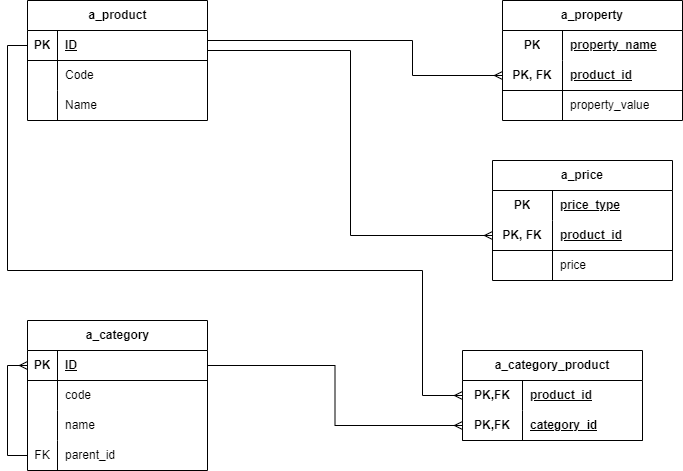
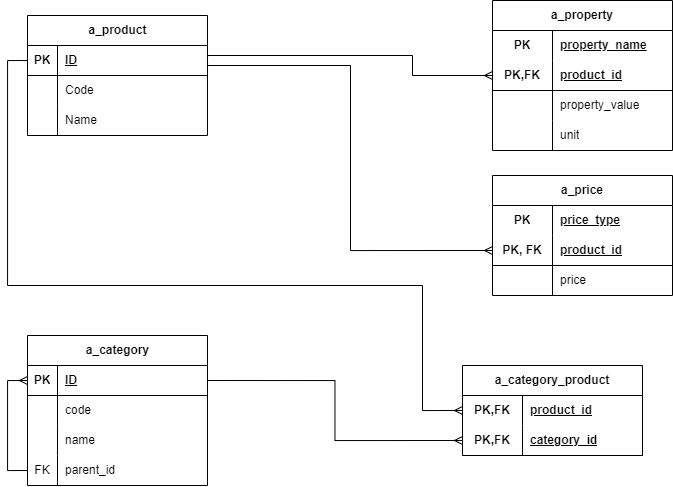
db
Добавлена единица измерения для свойства элемента

diff --git a/2.php b/2.php
@@ -80,7 +80,43 @@ function importXml(string $a) : void{
         $stmt = $connection->prepare("INSERT INTO a_product (code, name) VALUES (?, ?)");
         $stmt->bind_param("ss", $code, $name);
         $stmt->execute();
+        $productId = $connection->insert_id;
 
+        foreach ($product->Цена as $price) {
+            $priceType = $price['Тип'];
+            $priceValue = (float)$price;
+            $stmt = $connection->prepare("INSERT INTO a_price (product_id, price_type, price) VALUES (?, ?, ?)");
+            $stmt->bind_param("isd", $productId, $priceType, $priceValue);
+            $stmt->execute();
+        }
+
+        foreach ($product->Свойства->children() as $propertyName => $propertyValue) {
+            $propertyValue = (string)$propertyValue;
+            $stmt = $connection->prepare("INSERT INTO a_property (product_id, property_name, property_value) VALUES (?, ?, ?)");
+            $stmt->bind_param("iss", $productId, $propertyName, $propertyValue);
+            $stmt->execute();
+        }
+
+        foreach ($product->Разделы->Раздел as $category) {
+            $categoryName = (string)$category;
+            
+            $stmt = $connection->prepare("SELECT id FROM a_category WHERE name = ?");
+            $stmt->bind_param("s", $categoryName);
+            $stmt->execute();
+            $result = $stmt->get_result();
+            if ($result->num_rows == 0) {
+                $stmt = $connection->prepare("INSERT INTO a_category (name) VALUES (?)");
+                $stmt->bind_param("s", $categoryName);
+                $stmt->execute();
+                $categoryId = $connection->insert_id;
+            } else {
+                $row = $result->fetch_assoc();
+                $categoryId = $row['id'];
+            } 
+            $stmt = $connection->prepare("INSERT INTO a_product_category (product_id, category_id) VALUES (?, ?)");
+            $stmt->bind_param("ii", $productId, $categoryId);
+            $stmt->execute();
+        }
     }
 }
 
